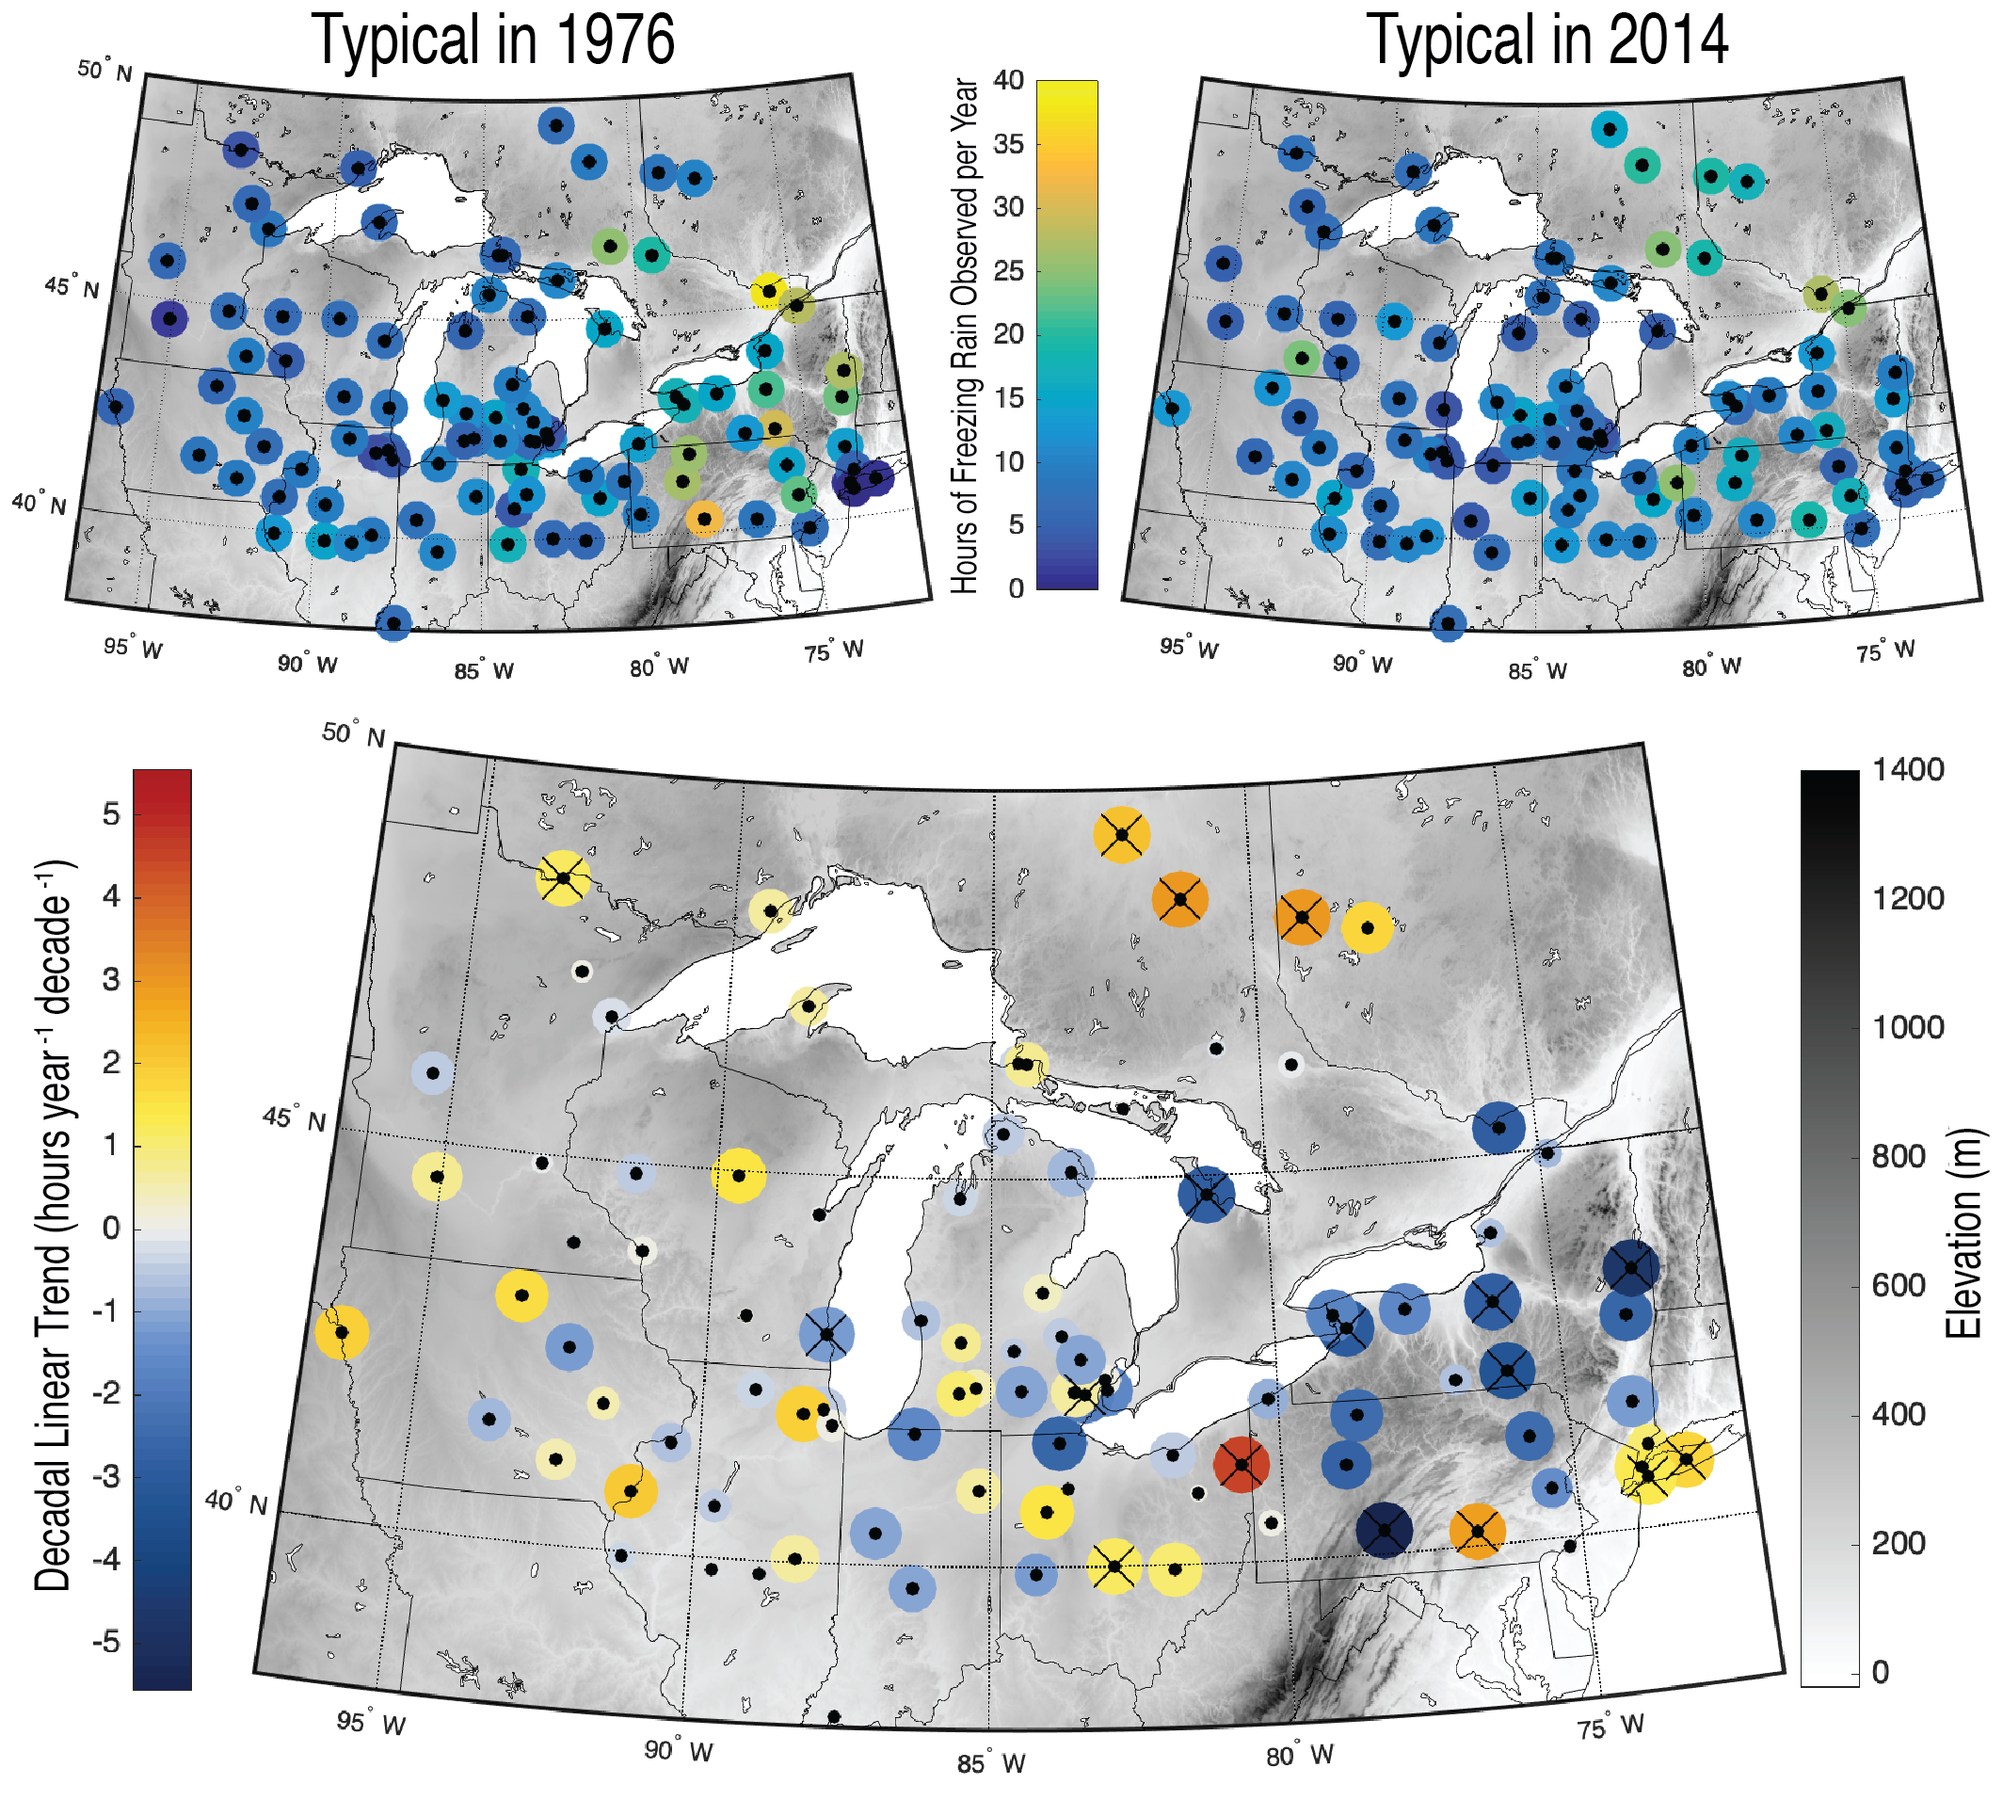
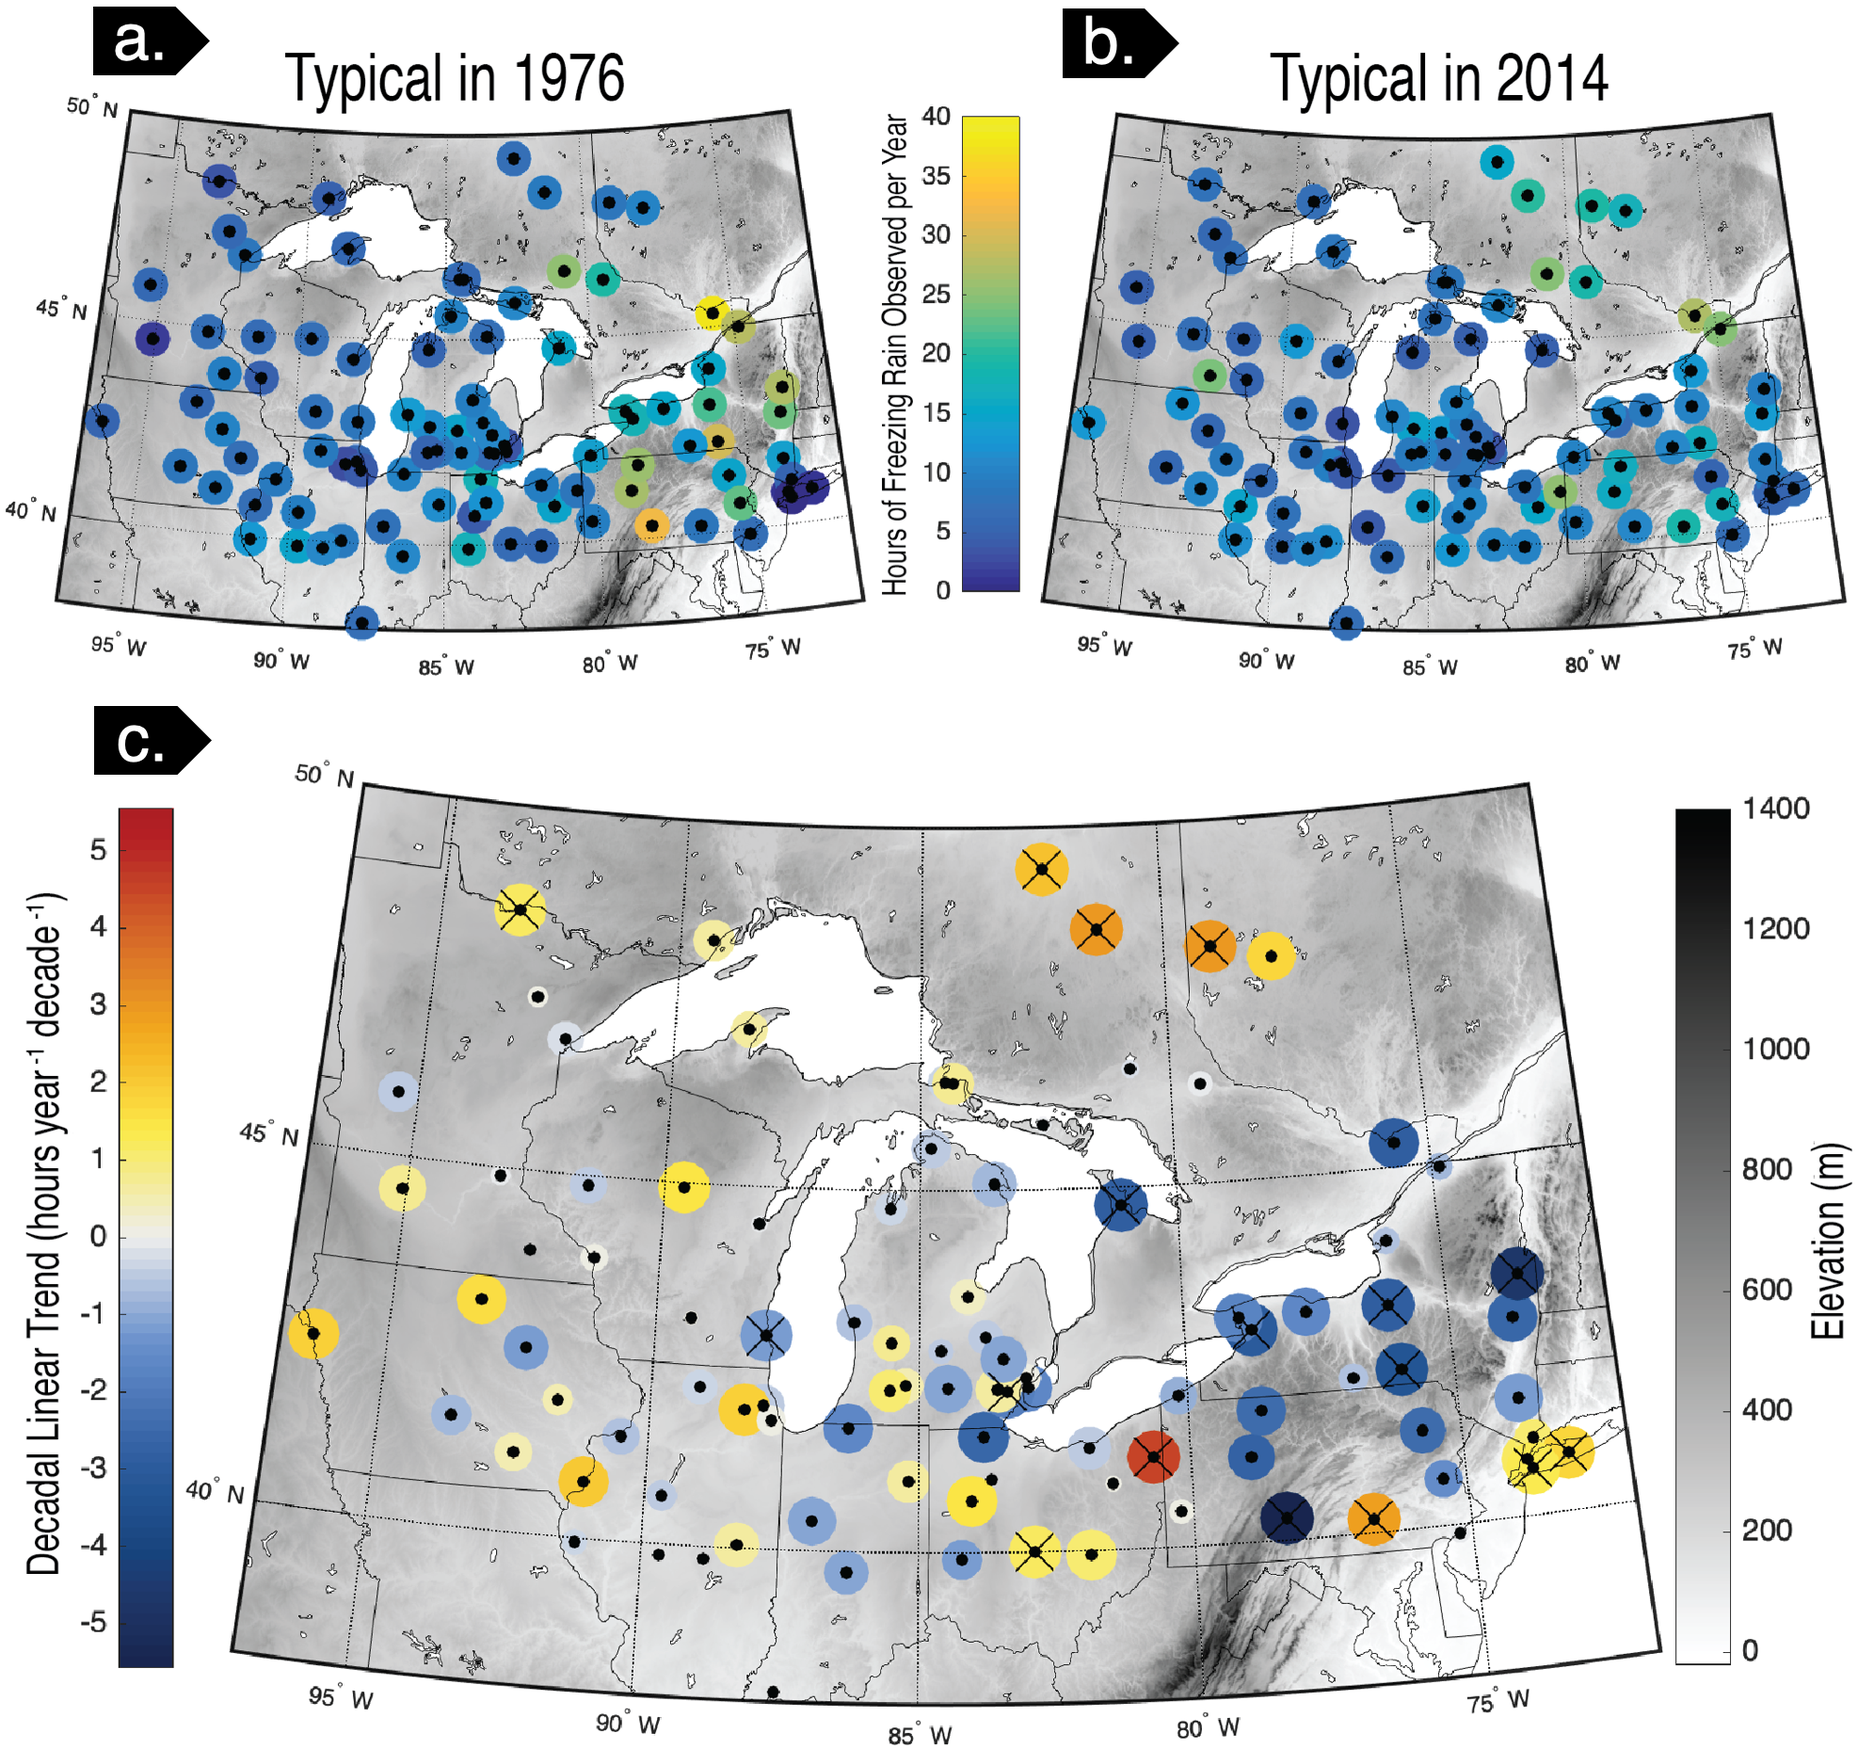
Add labels to subplots in trend maps

diff --git a/amspaper.tex b/amspaper.tex
@@ -198,13 +198,13 @@ The required modification to the monthly Mann-Kendall test further reduces stati
 In the case that the Mann-Kendall test indicates a monotonic trend exists, the trend is assumed to be linear and the slope calculated. The Theil-Sen slope estimator is a method commonly paired with Mann-Kendall; it is much more accurate than simple linear regression for non-normal data and is robust in the presence of outliers. The slope is defined as the median of the slopes calculated between every permutation of points in the time series, $\{d(t_1,t_2)/[t_2-t_1]:t_2>t_1\}$. As a linear slope estimation, it can be seen as the "typical" index of change over a unit of time. \citep{chandler2011statistical}. The confidence interval is then calculated by computing an inverse normal cumulative density function.
 
 
-\subsection{Trends in the frequency of freezing rain observations (1976--2014)}
+\subsection{Annual and monthly trends in the frequency of freezing rain observations (1976--2014)}
 
 \todo[inline]{ADD: (-1.5$\pm$2.1\degree C [1$\sigma$] in the Great Lakes and Northeast during an event)}
 
-Figure \ref{fig:trendmap}c. depicts linear trends as a change in total annual hours of freezing rain per decade, calculated using the Theil-Sen method at all 97 first-order stations that met the criteria outlined in the data section above. As shown, the modified Mann-Kendall test indicated the existence of monotonic annual trends at 16 locations at the $p<0.05$ significance level. While there appears to be a general decrease in annual hours of freezing rain in the south of the region and an increase to the north in south-central Canada, much of the western region in the mid-latitudes has not experienced a consistent annualized trend over the 39 years studied. The possibility remains that expected decreases in the "shoulder" fall and spring months and increases during the mid-winter months may be expected to have competing effects on the overall annual freezing rain frequency.
+The map in Figure \ref{fig:trendmap}c. depicts linear trends as a change in total annual hours of freezing rain per decade, calculated using the Theil-Sen method at all 97 first-order stations that met the criteria outlined in the data section above. As denoted by the Xs through some station locations, the modified Mann-Kendall test indicated the existence of monotonic annual trends at 16 locations at the $p<0.05$ significance level. While there has been a general decrease in annual hours of freezing rain in the south of the region and an increase to the north in the Canadian Shield, much of the western region in the mid-latitudes has not experienced a consistent annualized trend over the 39 years studied. The possibility remains that expected decreases in the "shoulder" fall and spring months and increases during the mid-winter months may be expected to have competing effects on the overall annual freezing rain frequency.
 
-Figure \ref{fig:trendmap} indicates distinct regional trends. Stations along the northeastern Appalachian Mountains, the Catskills, and the Adirondacks, for example, which frequently experience topography-forced events, have experienced a consistent decrease in freezing rain event frequency, along with stations near the eastern shores of Lakes Erie and Ontario. Stations centered on Long Island, on the other hand, indicate substantial increases. 
+Figure \ref{fig:trendmap}c. indicates distinct regional trends. Stations along the northeastern Appalachian Mountains, the Catskills, and the Adirondacks, for example, which frequently experience topography-forced events, have experienced a consistent decrease in freezing rain event frequency, along with stations near the eastern shores of Lakes Erie and Ontario. Stations centered on Long Island, on the other hand, indicate substantial increases. 
 --Stations immediately downwind of major bodies of water, such as Milwaukee, WI, which lies on the western shore of Lake Michigan, 
 south of Lakes Erie and Ontario were previously noted for experiencing less freezing rain than areas further inland 
 --\citet{changnon2003urban} showed that urban areas such as Chicago and New York City experience less freezing rain than surrounding rural areas due to the urban heat island effect. The observations here, however, show that stations in more rural areas such as Long Island 
